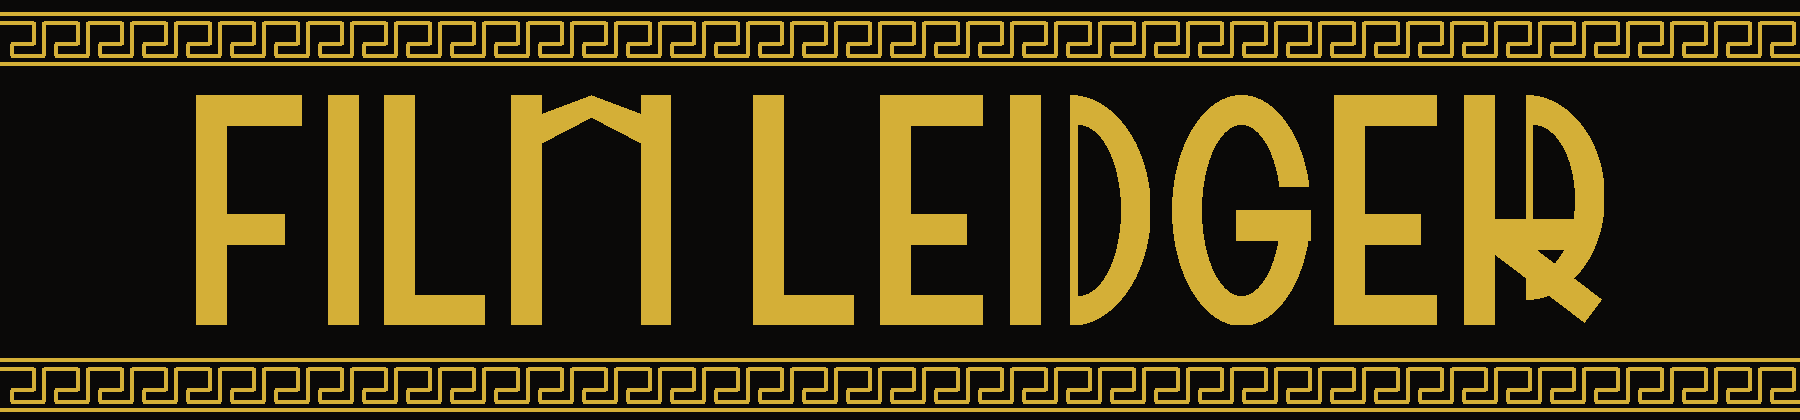
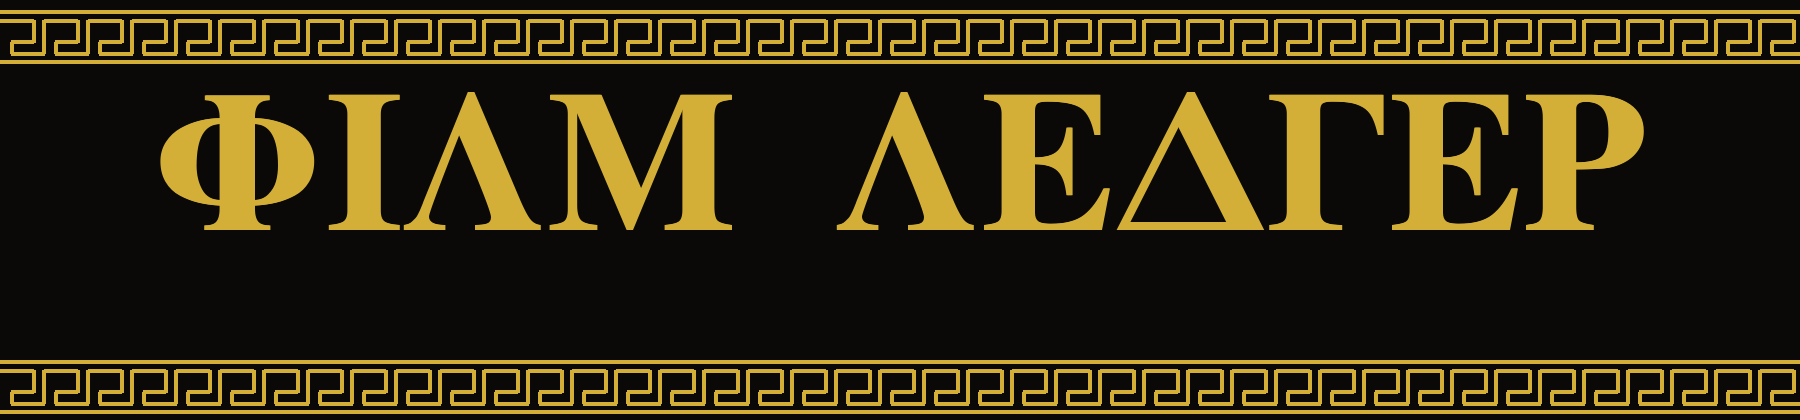
v5.35: header in actual Greek letters
Title reads ΦΙΛΜ ΛΕΔΓΕΡ between the Greek key friezes.

diff --git a/index.html b/index.html
@@ -14,8 +14,8 @@
 <body>
   <div class="sticky-top">
     <div class="brand">
-      <img class="brand-mark" src="film-ledger-title.png?v=533" alt="Film Ledger">
-      <span class="brand-ver">v5.34</span>
+      <img class="brand-mark" src="film-ledger-title.png?v=535" alt="Film Ledger">
+      <span class="brand-ver">v5.35</span>
     </div>
 
     <div class="search-bar">
@@ -60,6 +60,6 @@
     <div id="least" class="tabs"></div>
   </div>
 
-  <script src="app.js?v=534"></script>
+  <script src="app.js?v=535"></script>
 </body>
 </html>

diff --git a/app.js b/app.js
@@ -1733,7 +1733,7 @@ function renderSettings() {
       <p class="backup-note">${recent.length ? recent.length + ' recent searches saved on this device.' : 'No recent searches.'}</p>
       <button type="button" onclick="clearSearchHistory(); renderSettings();">Clear History</button>
     </div>
-    <p class="backup-note" style="margin-top:14px;">Film Ledger v5.34</p>
+    <p class="backup-note" style="margin-top:14px;">Film Ledger v5.35</p>
   `;
 }
 

diff --git a/service-worker.js b/service-worker.js
@@ -1,11 +1,11 @@
-const CACHE_NAME = 'film-ledger-v5.34';
+const CACHE_NAME = 'film-ledger-v5.35';
 const urlsToCache = [
   './',
   './index.html',
   './styles.css',
-  './app.js?v=534',
+  './app.js?v=535',
   './manifest.json',
-  './film-ledger-title.png?v=533'
+  './film-ledger-title.png?v=535'
 ];
 
 self.addEventListener('install', event => {
